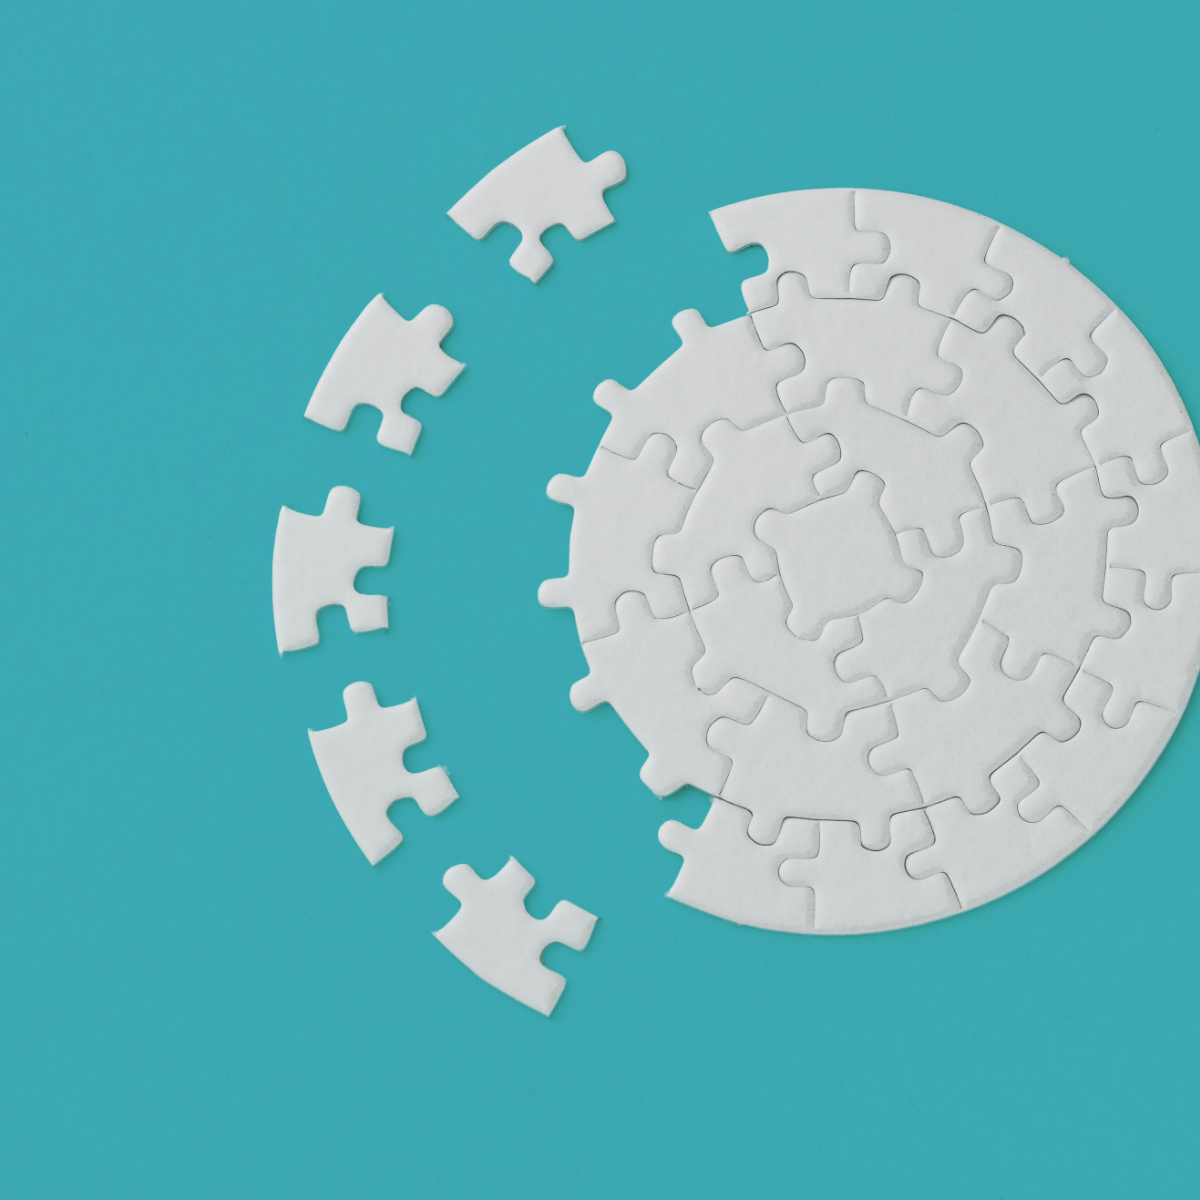
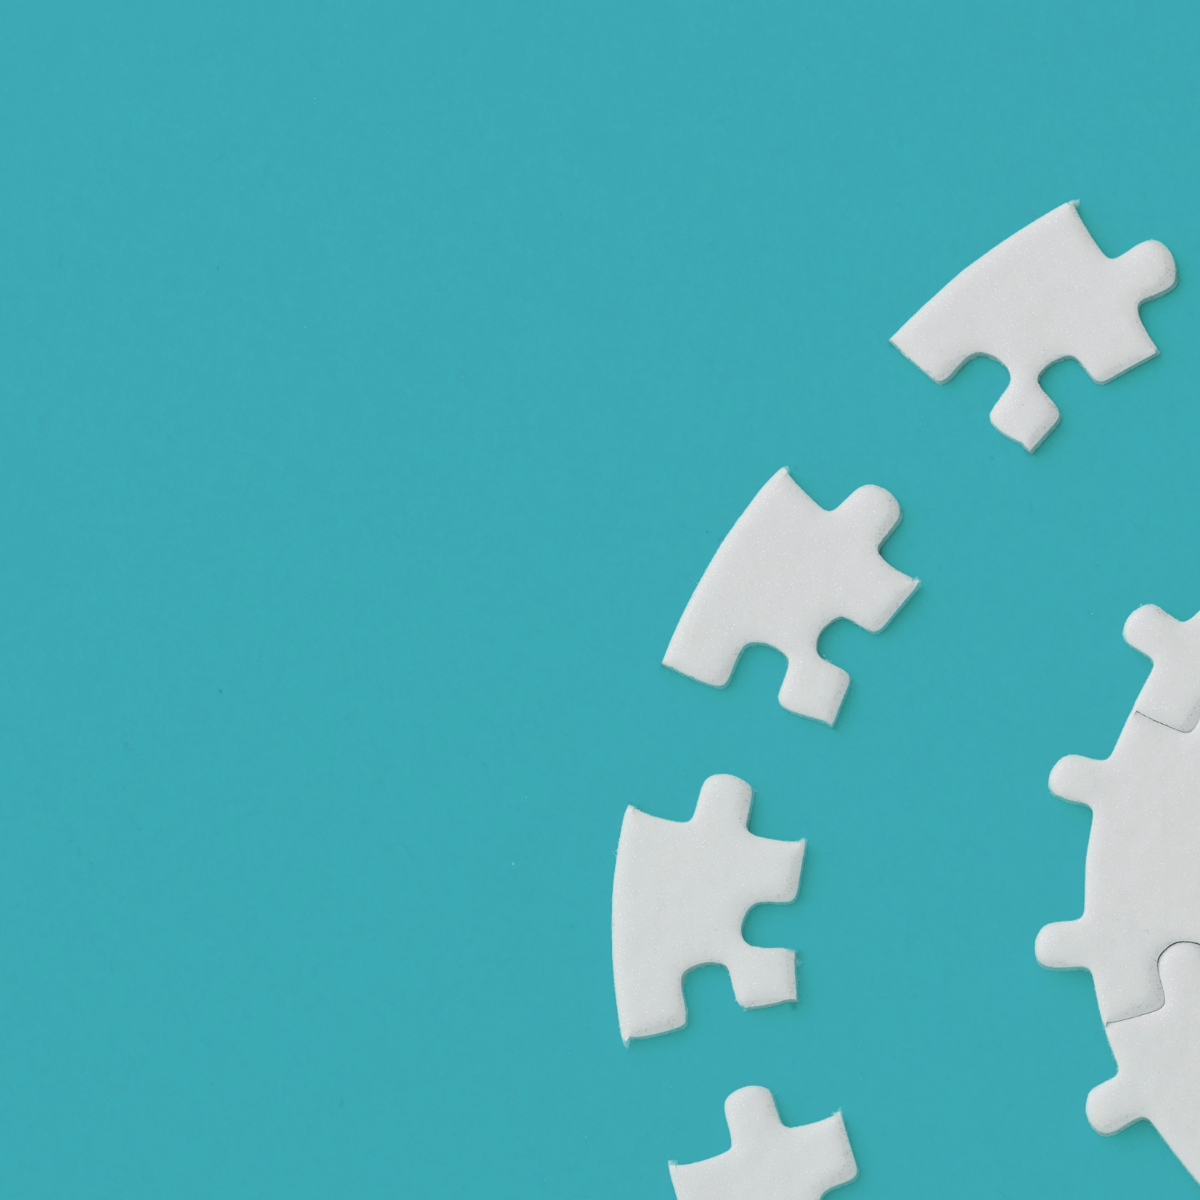
🐛 Image stretch, disable hint, user dialog

diff --git a/components/UserDialog.qml b/components/UserDialog.qml
@@ -40,7 +40,7 @@ Popup {
                     id: ok
                     text: "U redu"
                     font.pixelSize: 20
-                    width: popupButtonRow.width / 2 - popupButtonRow.spacing
+                    width: usernamePopup.width / 4
                     ToolTip.visible: hovered
                     ToolTip.text: "U redu"
                     onClicked: {
@@ -65,7 +65,7 @@ Popup {
                     id: cancel
                     text: "Odustani"
                     font.pixelSize: 20
-                    width: 100
+                    width: usernamePopup.width / 4
                     ToolTip.visible: hovered
                     ToolTip.text: "Odustani"
                     onClicked: {

diff --git a/components/TimerControls.qml b/components/TimerControls.qml
@@ -24,9 +24,11 @@ Item {
             if(isStart) {
                 timer.stop();
                 gridView.visible = false;
+                hintButton.enabled = false
             } else {
                 timer.start();
                 gridView.visible = true;
+                hintButton.enabled = true
             }
 
             isStart = !isStart;

diff --git a/Main.qml b/Main.qml
@@ -278,8 +278,11 @@ Window {
     // Pozadina
     Image {
         id : background
+        width: window.width
+        height: parent.height
         source: "qrc:///images/background.png"
         z: -1
+        fillMode: Image.PreserveAspectCrop
     }
 
     // Naslov

diff --git a/components/IconButton.qml b/components/IconButton.qml
@@ -9,6 +9,7 @@ Button {
     z: 20
     height: 70
     width: 70
+    enabled: true
 
     ToolTip.visible: hovered
     ToolTip.text: "Riješi 1 nasumičnu ćeliju"

diff --git a/src/grid.cpp b/src/grid.cpp
@@ -109,7 +109,7 @@ void grid::initGrid_file_txt(int i)
     inputFile.close();
 
     // Ucitavanje mreze za rjesenje
-    string inputSolutionFileName = "./mreze/savedrjesenje.txt";
+    string inputSolutionFileName = "./mreze/savedsolution.txt";
     ifstream inputSolutionFile(inputSolutionFileName);
 
     if (!inputSolutionFile.is_open()) {
@@ -137,21 +137,6 @@ void grid::initGrid_file_txt(int i)
     }
 
     inputSolutionFile.close();
-
-    int j = 0;
-    for (int i = 0; i < 81; ++i) {
-        if (listCells[i].toStdString() == "") {
-            cout << "x ";
-        } else {
-            cout << listCells[i].toStdString() + " ";
-        }
-
-        j++;
-        if (j == 9) {
-            cout << endl;
-            j = 0;
-        }
-    }
 
     emit cellChanged();
 }
@@ -217,21 +202,6 @@ void grid::initGrid_game(int i)
 // Spremanje igre
 void grid::save()
 {
-    int j = 0;
-    for (int i = 0; i < 81; ++i) {
-        if (listCells[i].toStdString() == "") {
-            cout << "x ";
-        } else {
-            cout << listCells[i].toStdString() + " ";
-        }
-
-        j++;
-        if (j == 9) {
-            cout << endl;
-            j = 0;
-        }
-    }
-
     std::ofstream myfile;
     myfile.open("./mreze/saved.txt");
     for (int i = 0; i < 9; i++) {
@@ -255,7 +225,7 @@ void grid::save()
 
     myfile.close();
 
-    myfile.open("./mreze/savedrjesenje.txt");
+    myfile.open("./mreze/savedsolution.txt");
     for (int i = 0; i < 9; i++) {
         for (int j = 0; j < 9; j++) {
             int index = j + 9 * i;
@@ -445,22 +415,23 @@ void grid::check(bool checkOnClick)
 
         // Opcija 2 za DRY
         //        for (int k = 0; k < 18; k++) {
-        //            const int ind = k < 9 ? 9 * coordinates[1] + k : 9 * (k - 9) + coordinates[0];
-        //            if (ind != index && listCells[ind] == listCells[index]) {
+        //            const int indexToCompare = k < 9 ? 9 * coordinates[1] + k
+        //                                             : 9 * (k - 9) + coordinates[0];
+        //            if (indexToCompare != index && listCells[indexToCompare] == listCells[index]) {
         //                if (checkOnClick) {
-        //                    listColors[ind] = COLOR_FALSE;
+        //                    listColors[indexToCompare] = COLOR_FALSE;
         //                    listColors[index] = COLOR_FALSE;
-        //                    a = false;
+        //                    checkIfDone = false;
         //                } else {
-        //                    a = false;
+        //                    checkIfDone = false;
         //                }
         //            }
-        //            if (listCells[ind].isEmpty()) {
+        //            if (listCells[indexToCompare].isEmpty()) {
         //                if (checkOnClick) {
-        //                    listColors[ind] = COLOR_FALSE;
-        //                    a = false;
+        //                    listColors[indexToCompare] = COLOR_FALSE;
+        //                    checkIfDone = false;
         //                } else {
-        //                    a = false;
+        //                    checkIfDone = false;
         //                }
         //            }
         //        }
@@ -473,11 +444,11 @@ void grid::check(bool checkOnClick)
     emit cellChanged();
 }
 
-void grid::checkLine(int ind, int index, bool checkOnClick)
+void grid::checkLine(int indexToCompare, int index, bool checkOnClick)
 {
-    if (ind != index && listCells[ind] == listCells[index]) {
+    if (indexToCompare != index && listCells[indexToCompare] == listCells[index]) {
         if (checkOnClick) {
-            listColors[ind] = COLOR_FALSE;
+            listColors[indexToCompare] = COLOR_FALSE;
             listColors[index] = COLOR_FALSE;
             checkIfDone = false;
         } else {
@@ -485,9 +456,9 @@ void grid::checkLine(int ind, int index, bool checkOnClick)
         }
     }
 
-    if (listCells[ind].isEmpty()) {
+    if (listCells[indexToCompare].isEmpty()) {
         if (checkOnClick) {
-            listColors[ind] = COLOR_FALSE;
+            listColors[indexToCompare] = COLOR_FALSE;
             checkIfDone = false;
         } else {
             checkIfDone = false;
@@ -520,7 +491,6 @@ bool grid::uniqueCheck(int coord_x, int coord_y, int number)
 // Generiranje 3x3 kvadrata
 bool grid::generateSquare3x3(int sq_coord_x, int sq_coord_y)
 {
-    // Unutarnje koordinate kvadrata
     for (int inner_x = 0; inner_x < 3; inner_x++)
         for (int inner_y = 0; inner_y < 3;) {
             int coord_x = sq_coord_x + inner_x;
@@ -544,7 +514,6 @@ bool grid::generator()
 {
     for (int coord_x = 0; coord_x < 9; coord_x++)
         for (int coord_y = 0; coord_y < 9; coord_y++)
-            // Inicijalizacija s 0
             this->array[coord_x][coord_y] = 0;
 
     for (int outer_x = 0; outer_x < 3; outer_x++)

diff --git a/src/grid.h b/src/grid.h
@@ -32,7 +32,7 @@ public:
     Q_INVOKABLE void help();
     Q_INVOKABLE void check_saved_file();
     Q_INVOKABLE void changeIsLight(bool isLight);
-    void checkLine(int ind, int index, bool checkOnClick);
+    void checkLine(int indexToCompare, int index, bool checkOnClick);
 
     Q_INVOKABLE bool generate()
     {

diff --git a/main.cpp b/main.cpp
@@ -3,9 +3,9 @@
 #include <QIcon>
 #include <QQmlApplicationEngine>
 #include <QtQml>
+#include "player.h"
 #include "src/gametimer.h"
 #include "src/grid.h"
-#include "src/player.h"
 #include "src/theme.h"
 
 int main(int argc, char *argv[])
